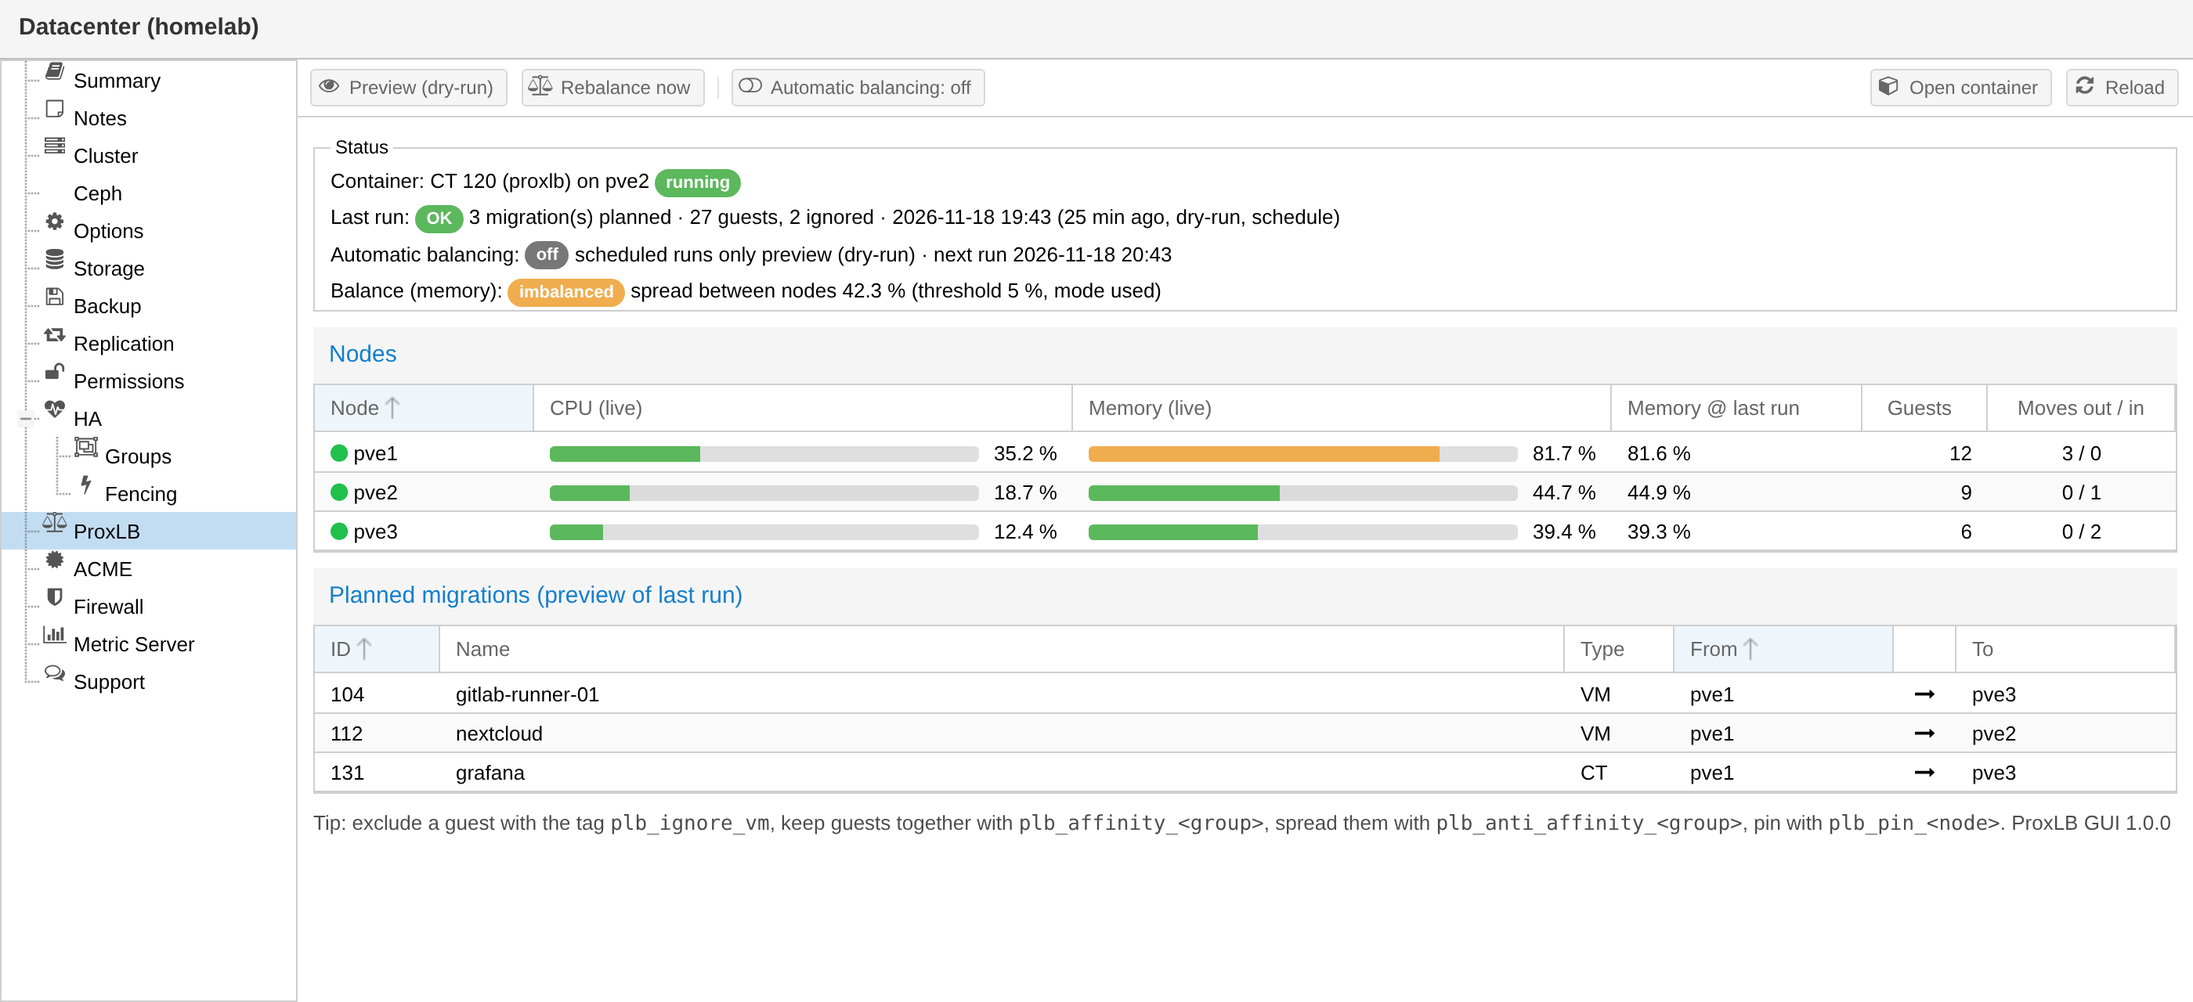
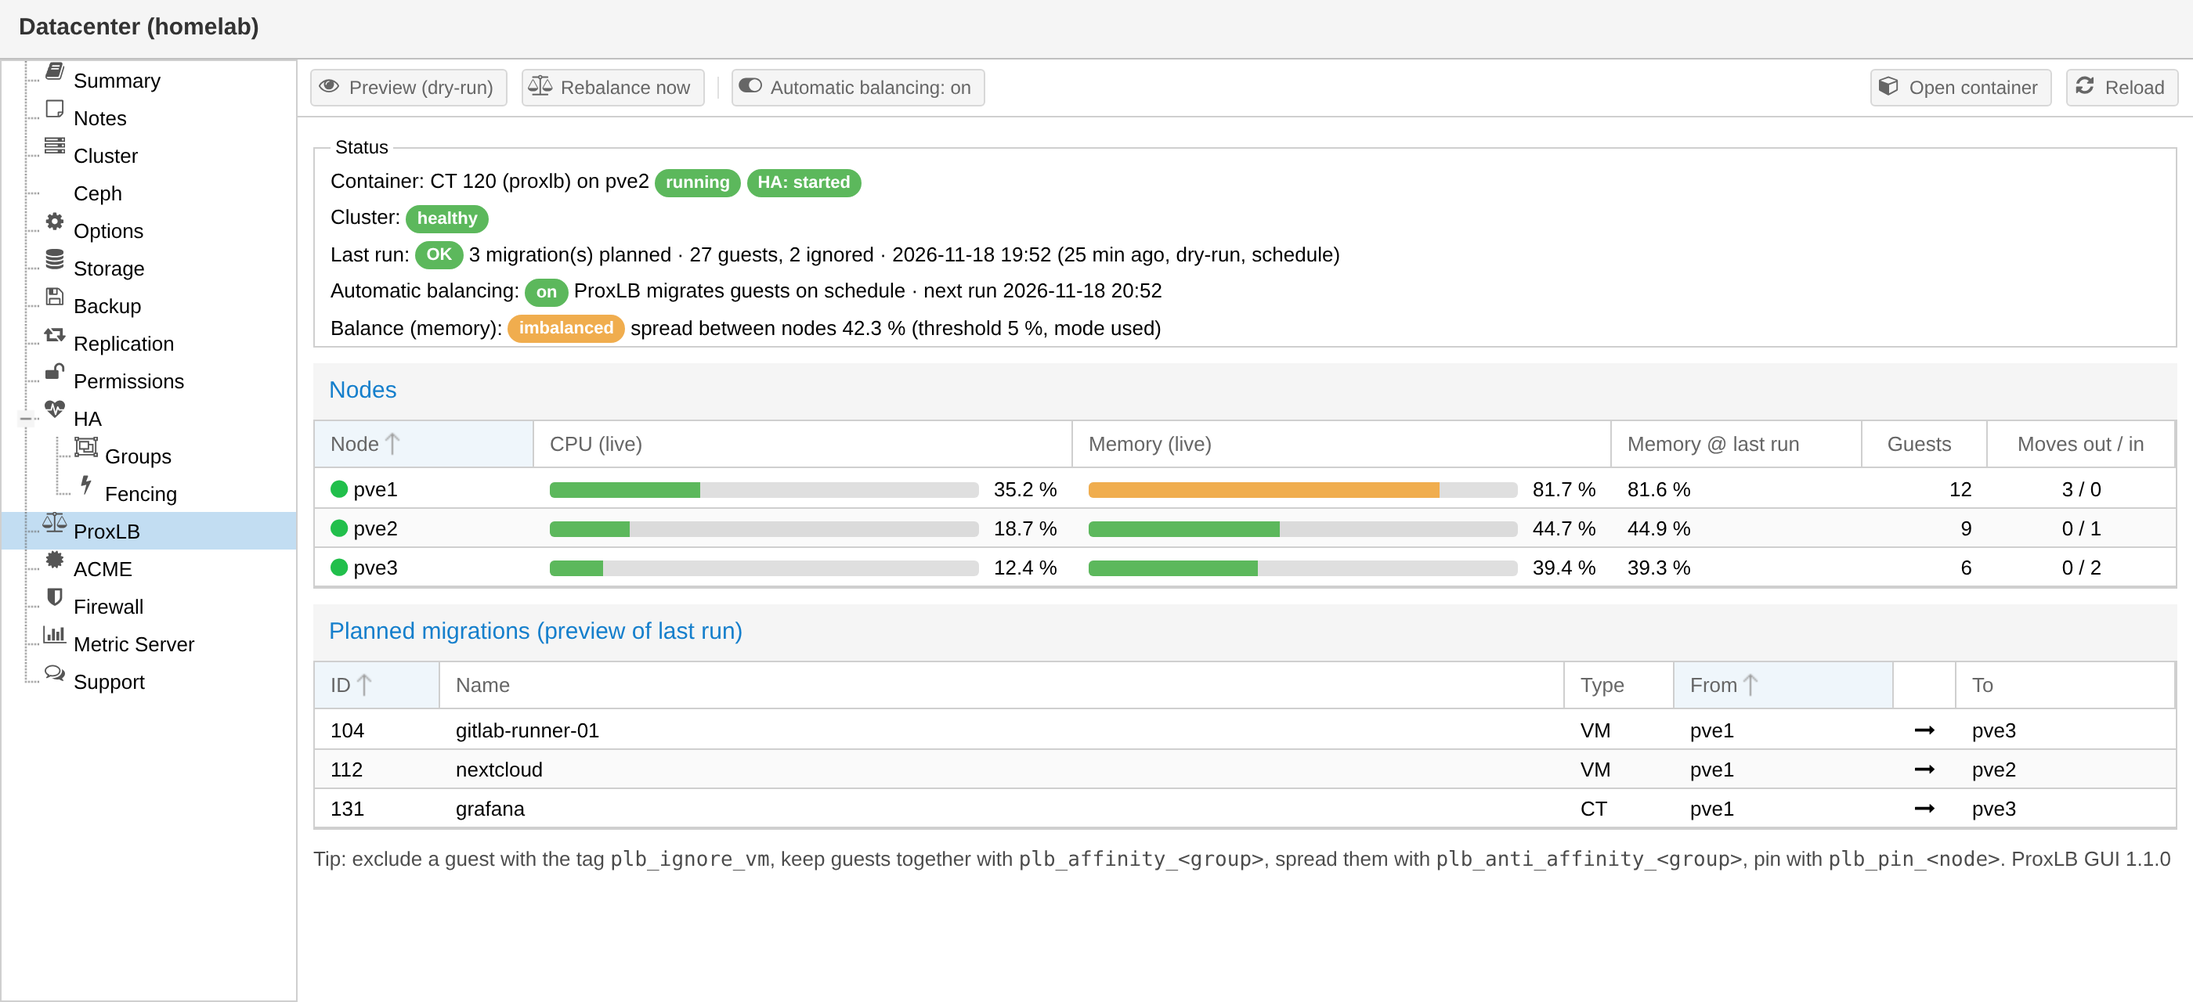
Make the ProxLB LXC highly available; pause balancing when degraded
- proxlb-lxc.sh: --ha (default auto) / --no-ha / --enable-ha CTID. Adds the
  CT to Proxmox HA (ha-manager). Shared storage is used as is; local ZFS gets
  storage replication to every other node first; other local storage is
  refused with a pct move-volume hint. Warns about quorum on 2-node clusters.
  Works from any node (pvesh instead of pct/pvesr local commands).
- proxlb-agent 1.1.0: detects a degraded cluster (node offline and not
  ignored, HA fencing/recovering guests) and turns real runs into dry-runs
  until it is healthy again (pause_when_degraded, default on). Uses one
  /cluster/resources call per tick; API failover over all cluster nodes.
- GUI 1.1.0: HA state badge for the CT, cluster healthy/degraded line,
  "Rebalance now" disabled while paused.
- Tests for degraded detection and the pause/resume flow; docs, changelog,
  second screenshot (node down).

Claude-Session: https://claude.ai/code/session_01SZrFpotMLJF5vTL7DSNeRA

Changed region(s): [[0.1243, 0.1562, 0.9943, 0.875], [0.9632, 0.6562, 0.9943, 0.7188], [0.2796, 0.1875, 0.3107, 0.2188]]

diff --git a/contrib/proxmox/gui/preview/preview.html b/contrib/proxmox/gui/preview/preview.html
@@ -34,15 +34,31 @@ const status = {
     [131, 'grafana', 'ct', 'pve1', 'pve3'],
   ],
   moves_total: 3, guests: 27, ignored: 2, ok: true, error: null,
-  auto: false, next_run: now + 2100, hb: now - 20, ctid: 120,
+  auto: true, next_run: now + 2100, hb: now - 20, ctid: 120,
 };
 const resources = [
   { type: 'node', node: 'pve1', status: 'online', cpu: 0.352, maxcpu: 16, mem: 52.3e9, maxmem: 64e9, disk: 22e9, maxdisk: 100e9 },
   { type: 'node', node: 'pve2', status: 'online', cpu: 0.187, maxcpu: 16, mem: 28.6e9, maxmem: 64e9, disk: 31e9, maxdisk: 100e9 },
   { type: 'node', node: 'pve3', status: 'online', cpu: 0.124, maxcpu: 12, mem: 12.6e9, maxmem: 32e9, disk: 18e9, maxdisk: 100e9 },
-  { type: 'lxc', vmid: 120, node: 'pve2', name: 'proxlb', status: 'running', tags: 'proxlb;plb_ignore_vm' },
+  { type: 'lxc', vmid: 120, node: 'pve2', name: 'proxlb', status: 'running', hastate: 'started', tags: 'proxlb;plb_ignore_vm;proxlb-active' },
 ];
-const guestsPerNode = { pve1: 12, pve2: 8, pve3: 6 };
+// ?degraded : pve1 has failed, HA restarted its guests elsewhere, ProxLB pauses
+const degraded = location.search.indexOf('degraded') !== -1;
+if (degraded) {
+  Object.assign(resources[0], { status: 'offline', cpu: 0, mem: 0 });
+  Object.assign(resources[1], { cpu: 0.46, mem: 49.1e9 });
+  Object.assign(resources[2], { cpu: 0.31, mem: 25.2e9 });
+  Object.assign(status, {
+    dry_run: true, trigger: 'schedule', started: now - 140, finished: now - 125, auto: true,
+    paused: 'node(s) offline: pve1; HA is recovering 2 guest(s)',
+    nodes: { pve2: [76.4, 45.2, 31.0, 0], pve3: [78.8, 30.9, 18.0, 0] },
+    moves: [], moves_total: 0,
+  });
+  resources.push({ type: 'qemu', vmid: 104, node: 'pve3', status: 'running', hastate: 'recovery' });
+  resources.push({ type: 'qemu', vmid: 112, node: 'pve2', status: 'running', hastate: 'recovery' });
+}
+const ctTags = 'proxlb;plb_ignore_vm;proxlb-active';
+const guestsPerNode = location.search.indexOf('degraded') !== -1 ? { pve1: 0, pve2: 15, pve3: 11 } : { pve1: 12, pve2: 8, pve3: 6 };
 Object.keys(guestsPerNode).forEach((n) => {
   for (let i = 0; i < guestsPerNode[n]; i++) {
     resources.push({ type: 'qemu', vmid: 200 + i, node: n, status: 'running' });
@@ -55,7 +71,7 @@ window.Proxmox = { Utils: { API2Request: function(opts) {
       opts.success({ result: { data: resources } });
     } else if (/\/lxc\/120\/config$/.test(opts.url)) {
       opts.success({ result: { data: {
-        tags: 'proxlb;plb_ignore_vm', digest: 'x',
+        tags: ctTags, digest: 'x',
         description: 'ProxLB\n<!--proxlb-status:' + JSON.stringify(status) + '-->',
       } } });
     }

diff --git a/contrib/proxmox/gui/proxlb-gui.js b/contrib/proxmox/gui/proxlb-gui.js
@@ -22,7 +22,7 @@
     }
 
     const PLB = {
-        VERSION: '1.0.0',
+        VERSION: '1.1.0',
         TAG_CT: 'proxlb',
         TAG_ACTIVE: 'proxlb-active',
         TAG_CMD_DRYRUN: 'proxlb-cmd-dryrun',
@@ -387,9 +387,19 @@
             } else {
                 let ctState = ctRunning ? PLB.badge(gettext('running'), '#5cb85c')
                     : PLB.badge(ct.status || 'unknown', '#d9534f');
+                let haState = ct.hastate
+                    ? PLB.badge('HA: ' + ct.hastate, ct.hastate === 'started' ? '#5cb85c' : '#f0ad4e')
+                    : PLB.badge(gettext('HA: off'), '#777');
                 lines.push('<b>' + gettext('Container') + ':</b> CT ' + ct.vmid + ' (' +
                     Ext.htmlEncode(ct.name || '') + ') on ' + Ext.htmlEncode(ct.node) + ' ' + ctState +
-                    (stale ? ' ' + PLB.badge(gettext('agent not responding'), '#d9534f') : ''));
+                    ' ' + haState +
+                    (stale ? ' ' + PLB.badge(gettext('agent not responding'), '#d9534f') : '') +
+                    (!ct.hastate ? ' <span style="opacity:0.7">' +
+                        gettext('(survive a node failure: proxlb-lxc.sh --enable-ha') + ' ' + ct.vmid + ')</span>' : ''));
+                lines.push('<b>' + gettext('Cluster') + ':</b> ' + (st.paused
+                    ? PLB.badge(gettext('degraded'), '#d9534f') + ' ' +
+                      gettext('real balancing paused until the cluster is healthy') + ' - ' + Ext.htmlEncode(st.paused)
+                    : PLB.badge(gettext('healthy'), '#5cb85c')));
 
                 let result;
                 if (running) {
@@ -433,7 +443,8 @@
             // ---- buttons -----------------------------------------------------
             let canAct = !!ct && ctRunning && !running && !queued;
             me.btnPreview.setDisabled(!canAct);
-            me.btnRun.setDisabled(!canAct);
+            me.btnRun.setDisabled(!canAct || !!st.paused);
+            me.btnRun.setTooltip(st.paused ? gettext('Paused: the cluster is degraded') : '');
             me.btnAuto.setDisabled(!ct);
             me.btnCt.setDisabled(!ct);
             me.btnAuto.setIconCls(auto ? 'fa fa-toggle-on' : 'fa fa-toggle-off');

diff --git a/contrib/proxmox/agent/proxlb-agent.py b/contrib/proxmox/agent/proxlb-agent.py
@@ -16,6 +16,10 @@ How it works
     proxlb-cmd-run      run a real balancing now
     proxlb-active       scheduled runs balance for real (otherwise dry-run)
   The agent removes the ``proxlb-cmd-*`` tags when it picks them up.
+* High availability: the container itself is made HA by Proxmox
+  (ha-manager, see proxlb-lxc.sh --ha). The agent talks to any reachable
+  cluster node and pauses real balancing while the cluster is degraded
+  (a node offline or HA recovering guests), so it never fights HA recovery.
 * Local triggers also work: ``touch /var/lib/proxlb/trigger-dryrun`` or
   ``/var/lib/proxlb/trigger-run`` (see ``proxlb-ctl``).
 """
@@ -38,7 +42,7 @@ import yaml
 
 Json = dict[str, Any]
 
-AGENT_VERSION = "1.0.0"
+AGENT_VERSION = "1.1.0"
 STATUS_MARKER = "<!--proxlb-status:"
 TAG_CMD_DRYRUN = "proxlb-cmd-dryrun"
 TAG_CMD_RUN = "proxlb-cmd-run"
@@ -96,6 +100,24 @@ def extract_json(stdout: str) -> tuple[Optional[Json], list[str]]:
             rest = text[end:].splitlines()
             return data, lines[:idx] + rest
     return None, lines
+
+
+HA_FAILURE_STATES = ("fence", "recovery", "error")
+
+
+def cluster_degraded(resources: list[Json], ignore_nodes: list[str]) -> Optional[str]:
+    """Return why the cluster is degraded, or None when it is healthy."""
+    reasons = []
+    offline = sorted(r["node"] for r in resources
+                     if r.get("type") == "node" and r.get("status") != "online"
+                     and r.get("node") not in ignore_nodes)
+    if offline:
+        reasons.append(f"node(s) offline: {', '.join(offline)}")
+    recovering = [str(r.get("vmid")) for r in resources
+                  if r.get("type") in ("qemu", "lxc") and r.get("hastate") in HA_FAILURE_STATES]
+    if recovering:
+        reasons.append(f"HA is recovering {len(recovering)} guest(s)")
+    return "; ".join(reasons) or None
 
 
 def build_status(data: Optional[Json], log_lines: list[str], *, dry_run: bool,
@@ -181,6 +203,7 @@ def render_description(status: Json) -> str:
             f"| Last run | {fmt_time(st.get('finished') or st.get('started'))} ({mode}, {st.get('trigger', '-')}) |",
             f"| Result | {result} |",
             f"| Automatic balancing | {auto} |",
+            f"| Cluster | {'degraded - balancing paused: ' + st['paused'] if st.get('paused') else 'healthy'} |",
             f"| Next scheduled run | {fmt_time(st.get('next_run'))} |",
             f"| Method | {st.get('method')} / {st.get('mode')} (balanciness {st.get('balanciness')}) |",
             "",
@@ -249,11 +272,12 @@ class Pve:
     def reset(self) -> None:
         self.api = None
 
-    def find_ct(self, ctid: int) -> tuple[str, list[str]]:
-        api = self.connect()
-        for res in api.cluster.resources.get(type="vm"):
-            if res.get("type") == "lxc" and int(res.get("vmid")) == ctid:
-                return res["node"], split_tags(res.get("tags"))
+    def cluster_state(self, ctid: int) -> tuple[str, list[str], list[Json]]:
+        """Node and tags of our container plus all cluster resources."""
+        resources = cast(list[Json], self.connect().cluster.resources.get())
+        for res in resources:
+            if res.get("type") == "lxc" and int(res.get("vmid", -1)) == ctid:
+                return res["node"], split_tags(res.get("tags")), resources
         raise RuntimeError(f"container {ctid} not found in cluster resources")
 
     def set_tags(self, node: str, ctid: int, tags: list[str]) -> None:
@@ -278,6 +302,8 @@ class Agent:
         self.poll = int(agent_cfg.get("poll_seconds", 10))
         self.run_timeout = int(agent_cfg.get("run_timeout_seconds", 4 * 3600))
         self.state_dir = Path(agent_cfg.get("state_dir", "/var/lib/proxlb"))
+        self.pause_when_degraded = bool(agent_cfg.get("pause_when_degraded", True))
+        self.paused: Optional[str] = None
         self.state_dir.mkdir(parents=True, exist_ok=True)
         self.cfg = self.load_cfg()
         self.pve = Pve(self.cfg)
@@ -310,6 +336,7 @@ class Agent:
         self.status["next_run"] = self.next_run
         self.status["hb"] = now_ts()
         self.status["ctid"] = self.ctid
+        self.status["paused"] = self.paused
         text = render_description(self.status)
         # Compare without the heartbeat to avoid needless writes.
         body = text.split(STATUS_MARKER)[0]
@@ -327,6 +354,9 @@ class Agent:
     # -- running ProxLB -----------------------------------------------------
     def run_proxlb(self, dry_run: bool, trigger: str, node: str, auto: bool) -> None:
         self.cfg = self.load_cfg()
+        if not dry_run and self.paused:
+            log.warning("cluster degraded (%s) - running a dry-run instead of balancing", self.paused)
+            dry_run = True
         started = now_ts()
         self.status.update(state="running", started=started, dry_run=dry_run, trigger=trigger)
         self.publish(node, auto, force=True)
@@ -362,6 +392,7 @@ class Agent:
 
         self.status = build_status(data, log_lines, dry_run=dry_run, trigger=trigger,
                                    started=started, finished=now_ts(), rc=rc, cfg=self.cfg)
+        self.status["paused"] = self.paused
         self.save_status()
         log.info("ProxLB run finished: ok=%s moves=%s", self.status["ok"], self.status["moves_total"])
 
@@ -379,12 +410,20 @@ class Agent:
 
     def tick(self) -> None:
         try:
-            node, tags = self.pve.find_ct(self.ctid)
+            node, tags, resources = self.pve.cluster_state(self.ctid)
         except Exception as err:  # noqa: BLE001
             log.error("Proxmox API not usable: %s", err)
             self.pve.reset()
             return
         auto = TAG_ACTIVE in tags
+        ignore = list((self.cfg.get("proxmox_cluster") or {}).get("ignore_nodes") or [])
+        paused = cluster_degraded(resources, ignore) if self.pause_when_degraded else None
+        if paused != self.paused:
+            if paused:
+                log.warning("cluster degraded, real balancing paused: %s", paused)
+            else:
+                log.info("cluster healthy again, balancing resumed")
+        self.paused = paused
 
         command = None
         if TAG_CMD_RUN in tags:

diff --git a/tests/test_contrib_proxmox_agent.py b/tests/test_contrib_proxmox_agent.py
@@ -48,6 +48,12 @@ PROXLB_DATA = {
     },
 }
 
+HEALTHY: list[dict[str, Any]] = [
+    {"type": "node", "node": "pve1", "status": "online"},
+    {"type": "node", "node": "pve2", "status": "online"},
+    {"type": "qemu", "vmid": 101, "node": "pve1", "hastate": "started"},
+]
+
 CFG = {
     "balancing": {"method": "cpu", "mode": "used", "balanciness": 7, "enable": True},
     "service": {"daemon": True, "enable_ha": True,
@@ -136,6 +142,21 @@ class TestAgentHelpers(unittest.TestCase):
         self.assertEqual(parsed["moves_total"], 500)
 
 
+class TestClusterDegraded(unittest.TestCase):
+    def test_healthy(self) -> None:
+        self.assertIsNone(agent.cluster_degraded(HEALTHY, []))
+
+    def test_node_offline(self) -> None:
+        res = HEALTHY + [{"type": "node", "node": "pve3", "status": "offline"}]
+        self.assertEqual(agent.cluster_degraded(res, []), "node(s) offline: pve3")
+        self.assertIsNone(agent.cluster_degraded(res, ["pve3"]))  # ignored nodes do not count
+
+    def test_ha_recovery(self) -> None:
+        res = HEALTHY + [{"type": "lxc", "vmid": 7, "node": "pve2", "hastate": "recovery"},
+                         {"type": "qemu", "vmid": 8, "node": "pve2", "hastate": "fence"}]
+        self.assertEqual(agent.cluster_degraded(res, []), "HA is recovering 2 guest(s)")
+
+
 class TestAgentLoop(unittest.TestCase):
     def make_agent(self, tmp: str, tags: list[str]) -> Any:
         cfg_path = Path(tmp) / "proxlb.yaml"
@@ -151,7 +172,7 @@ class TestAgentLoop(unittest.TestCase):
         a = agent.Agent({"ctid": 120, "proxlb_config": str(cfg_path),
                          "python": str(fake_proxlb), "state_dir": tmp})
         a.pve = MagicMock()
-        a.pve.find_ct.return_value = ("pve1", tags)
+        a.pve.cluster_state.return_value = ("pve1", tags, list(HEALTHY))
         return a
 
     def test_startup_run_is_dry_run(self) -> None:
@@ -194,6 +215,25 @@ class TestAgentLoop(unittest.TestCase):
             a.tick()
             self.assertEqual(a.status["trigger"], "cli")
             self.assertFalse((Path(tmp) / "trigger-dryrun").exists())
+
+    def test_degraded_cluster_downgrades_to_dry_run(self) -> None:
+        with tempfile.TemporaryDirectory() as tmp:
+            a = self.make_agent(tmp, ["proxlb", "proxlb-active", "proxlb-cmd-run"])
+            a.pve.cluster_state.return_value = (
+                "pve1", ["proxlb", "proxlb-active", "proxlb-cmd-run"],
+                HEALTHY + [{"type": "node", "node": "pve3", "status": "offline"}])
+            a.startup_run_done = True
+            a.tick()
+            self.assertTrue(a.status["dry_run"])  # real run refused while degraded
+            self.assertEqual(a.status["paused"], "node(s) offline: pve3")
+            text = a.pve.set_description.call_args[0][2]
+            self.assertIn("degraded - balancing paused", text)
+            # cluster recovers -> scheduled run balances for real again
+            a.pve.cluster_state.return_value = ("pve1", ["proxlb", "proxlb-active"], list(HEALTHY))
+            a.next_run = 0
+            a.tick()
+            self.assertFalse(a.status["dry_run"])
+            self.assertIsNone(a.status["paused"])
 
     def test_idle_tick_does_not_run(self) -> None:
         with tempfile.TemporaryDirectory() as tmp:

diff --git a/contrib/proxmox/README.md b/contrib/proxmox/README.md
@@ -55,7 +55,8 @@ The script:
 3. installs ProxLB and `proxlb-agent` in `/opt/proxlb/venv`,
 4. writes `/etc/proxlb/proxlb.yaml` with every cluster node as API host and the
    cluster CA as trusted CA, so TLS verification stays on,
-5. installs the GUI plugin on **all** cluster nodes over the cluster's root SSH.
+5. installs the GUI plugin on **all** cluster nodes over the cluster's root SSH,
+6. makes the container HA when the storage allows it (see below).
 
 Useful options (`bash proxlb-lxc.sh --help` lists them all):
 
@@ -70,6 +71,7 @@ Useful options (`bash proxlb-lxc.sh --help` lists them all):
 | `--active` | off | balance for real on schedule right away |
 | `--no-gui` / `--gui-this-node-only` | | GUI plugin installation |
 | `--upgrade CTID` | | update ProxLB, agent and GUI of an existing CT |
+| `--ha` / `--no-ha` / `--enable-ha CTID` | auto | high availability, see below |
 
 ## Safe by default
 
@@ -77,6 +79,38 @@ Scheduled runs are **dry-runs** (preview only) until you switch on
 **Automatic balancing** in the GUI, or install with `--active`. The first run
 after the agent starts is always a dry-run, so a reboot never triggers
 migrations on its own. **Rebalance now** always asks for confirmation.
+
+## High availability (a node goes down, ProxLB keeps working)
+
+By default the installer makes the ProxLB container **highly available** with
+Proxmox HA (`ha-manager add ct:<CTID>`). When the node it runs on fails, Proxmox
+fences that node and starts the container on another node. The agent there
+starts again and connects to any cluster node that is still reachable.
+
+| Container storage | What the installer does |
+|---|---|
+| Shared (Ceph RBD/CephFS, NFS, CIFS, iSCSI, shared LVM, ...) | HA only, no data loss |
+| Local **ZFS** (`local-zfs`) | storage replication to every other node (every 5 min, `--repl-schedule`) + HA. The CT restarts from the last replica, so at most a few minutes of agent state are lost. |
+| Other local storage (`local-lvm`, dir) | not possible. Move the disk first: `pct move-volume <CTID> rootfs <shared-storage>`, then run `bash proxlb-lxc.sh --enable-ha <CTID>` |
+
+* For an existing install: `bash proxlb-lxc.sh --enable-ha <CTID>` (works from any node).
+* `--no-ha` skips it. `--ha` warns loudly when it is not possible.
+* HA needs quorum. In a **2-node cluster** the surviving node has no quorum and
+  HA cannot act, so add a QDevice first (`pvecm qdevice setup <ip>`).
+
+**Balancing pauses while the cluster is degraded.** When a node is offline
+(and not in `ignore_nodes`), or HA is fencing or recovering guests, the agent
+turns every real run, scheduled or *Rebalance now*, into a dry-run. That way
+ProxLB never fights HA recovery or piles guests onto the survivors. It resumes
+automatically when the cluster is healthy again. To turn this off, set
+`pause_when_degraded: false` in `/etc/proxlb/agent.yaml`.
+
+![ProxLB tab while a node is down](../../docs/images/proxlb-gui-degraded.png)
+
+*Node pve1 has failed: HA restarted its guests elsewhere and ProxLB pauses balancing (sample data).*
+
+The GUI plugin is installed on every node, so the tab keeps working from any
+surviving node's web interface.
 
 ## Using the GUI
 

diff --git a/docs/02_installation.md b/docs/02_installation.md
@@ -118,7 +118,7 @@ bash ProxLB/contrib/proxmox/proxlb-lxc.sh            # see --help for IP, storag
 
 ![ProxLB tab in the Proxmox web interface](images/proxlb-gui.png)
 
-Scheduled runs only preview (dry-run) until you switch on automatic balancing in the GUI. See [contrib/proxmox/README.md](../contrib/proxmox/README.md) for details.
+Scheduled runs only preview (dry-run) until you switch on automatic balancing in the GUI. The container is made highly available with Proxmox HA (shared storage, or local ZFS with replication), so ProxLB keeps working when a node fails, and real balancing pauses while the cluster is degraded. See [contrib/proxmox/README.md](../contrib/proxmox/README.md) for details.
 
 ### Source
 ProxLB can also easily be used from the provided sources - for traditional systems but also as a Docker/Podman container image.

diff --git a/README.md b/README.md
@@ -238,7 +238,7 @@ bash ProxLB/contrib/proxmox/proxlb-lxc.sh            # see --help for IP, storag
 
 ![ProxLB tab in the Proxmox web interface](docs/images/proxlb-gui.png)
 
-Scheduled runs only preview (dry-run) until you switch on automatic balancing in the GUI. See [contrib/proxmox/README.md](contrib/proxmox/README.md) for details.
+Scheduled runs only preview (dry-run) until you switch on automatic balancing in the GUI. The container is made highly available with Proxmox HA (shared storage, or local ZFS with replication), so ProxLB keeps working when a node fails, and real balancing pauses while the cluster is degraded. See [contrib/proxmox/README.md](contrib/proxmox/README.md) for details.
 
 ### Source
 ProxLB can also easily be used from the provided sources - for traditional systems but also as a Docker/Podman container image.
